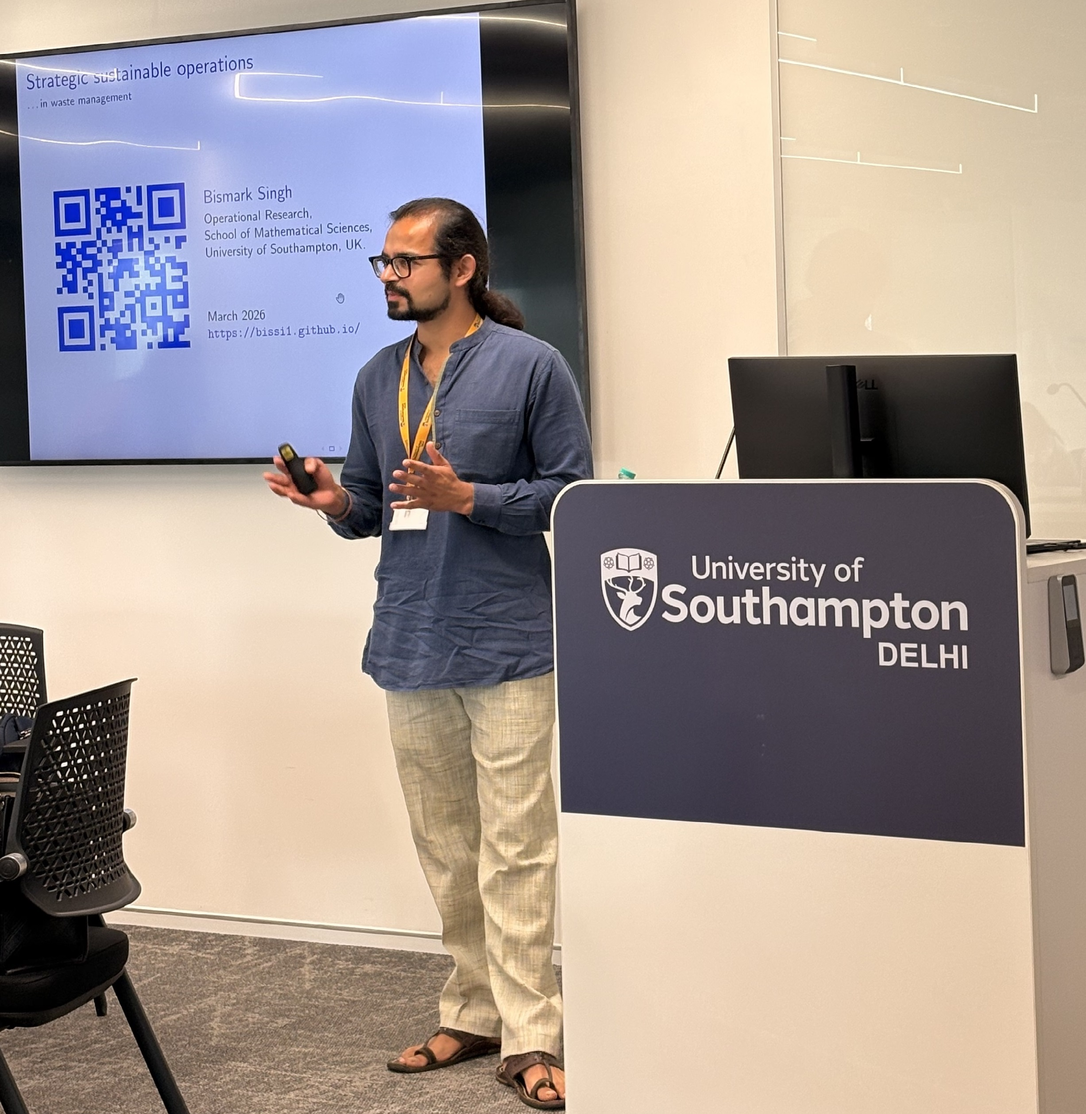
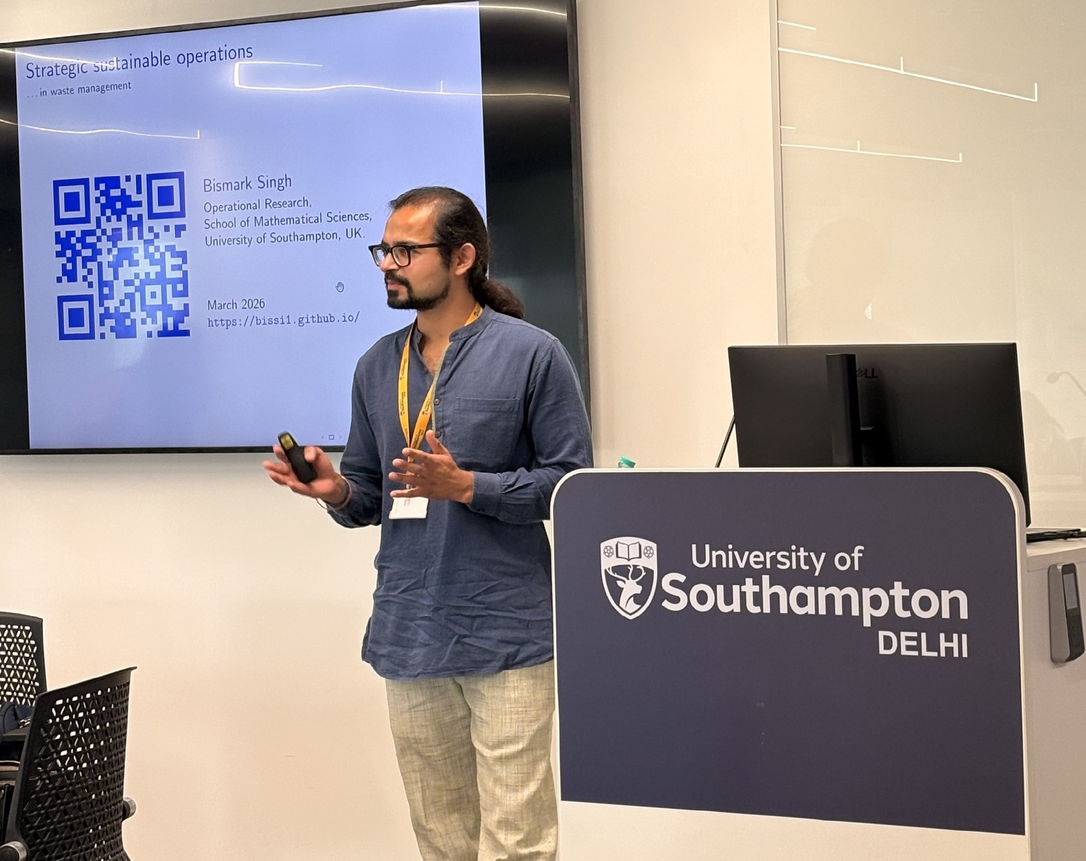
a

diff --git a/_pages/honors.md b/_pages/honors.md
@@ -142,7 +142,7 @@ classes: honors page-honors
   <div class="image-row layout-two">
     <div class="image-col">
       <div class="image-wrapper">
-        <img src="/assets/images/uosd.jpg" alt="uosd event" style="height: 100%; width: 800px;">
+        <img src="/assets/images/uosd.jpg" alt="uosd event" style ="height: 430px; width: 800px;">
       </div>
       <div class="image-caption">
         Invited guest lecture at <a href="https://www.linkedin.com/company/university-of-southampton-delhi/posts/?feedView=all" target="_blank"> University of Southampton's Delhi</a> campus (2026).
